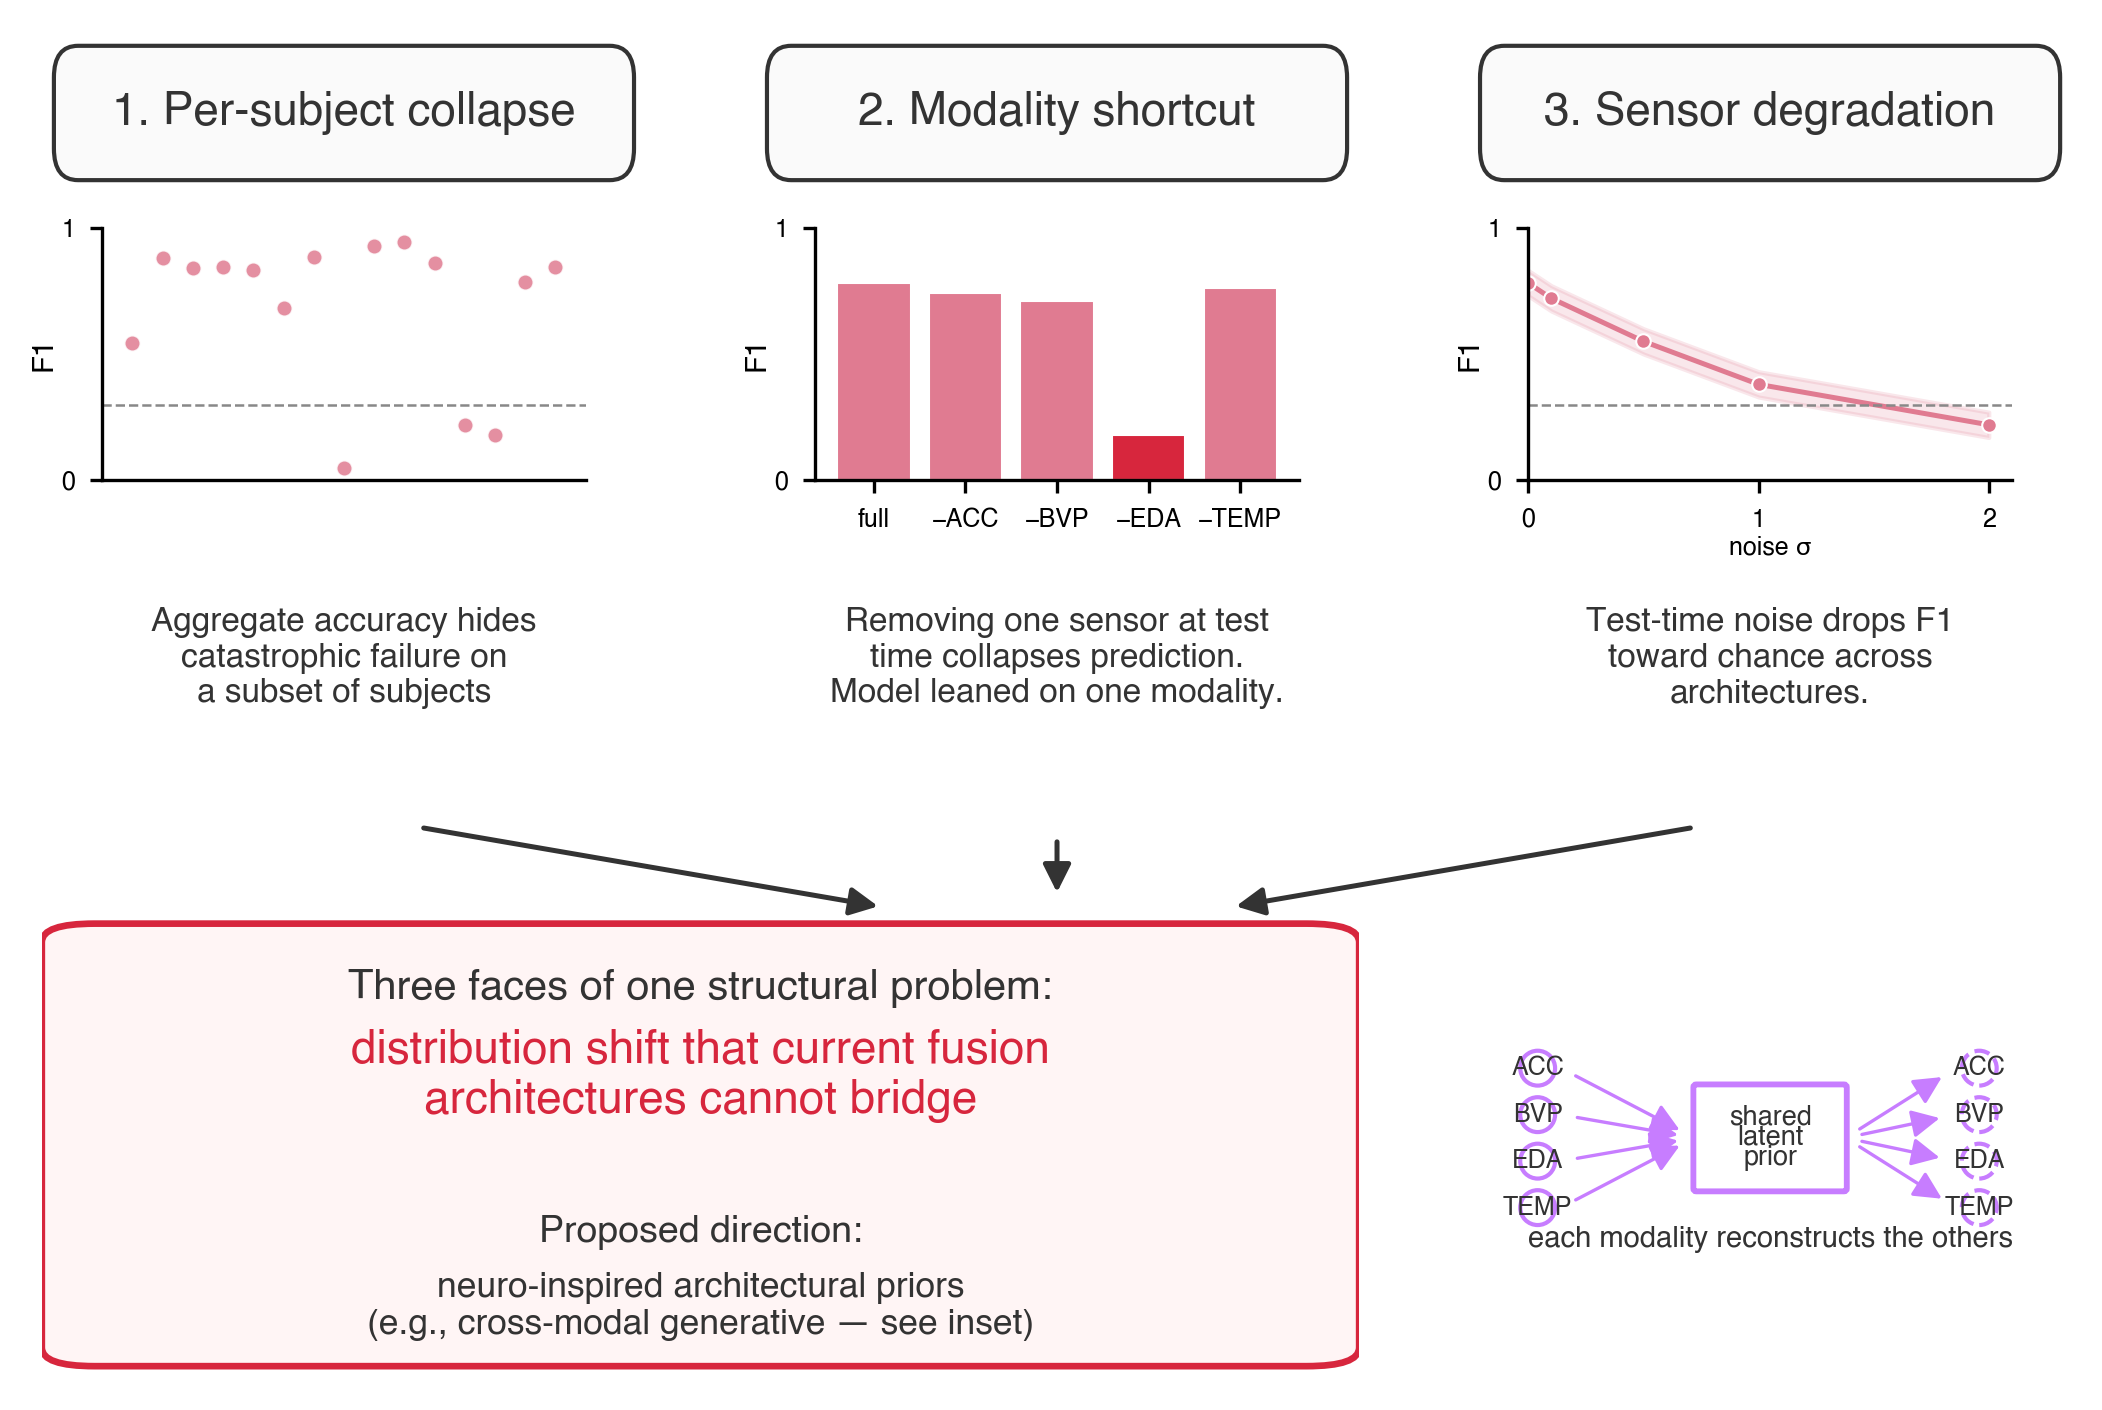
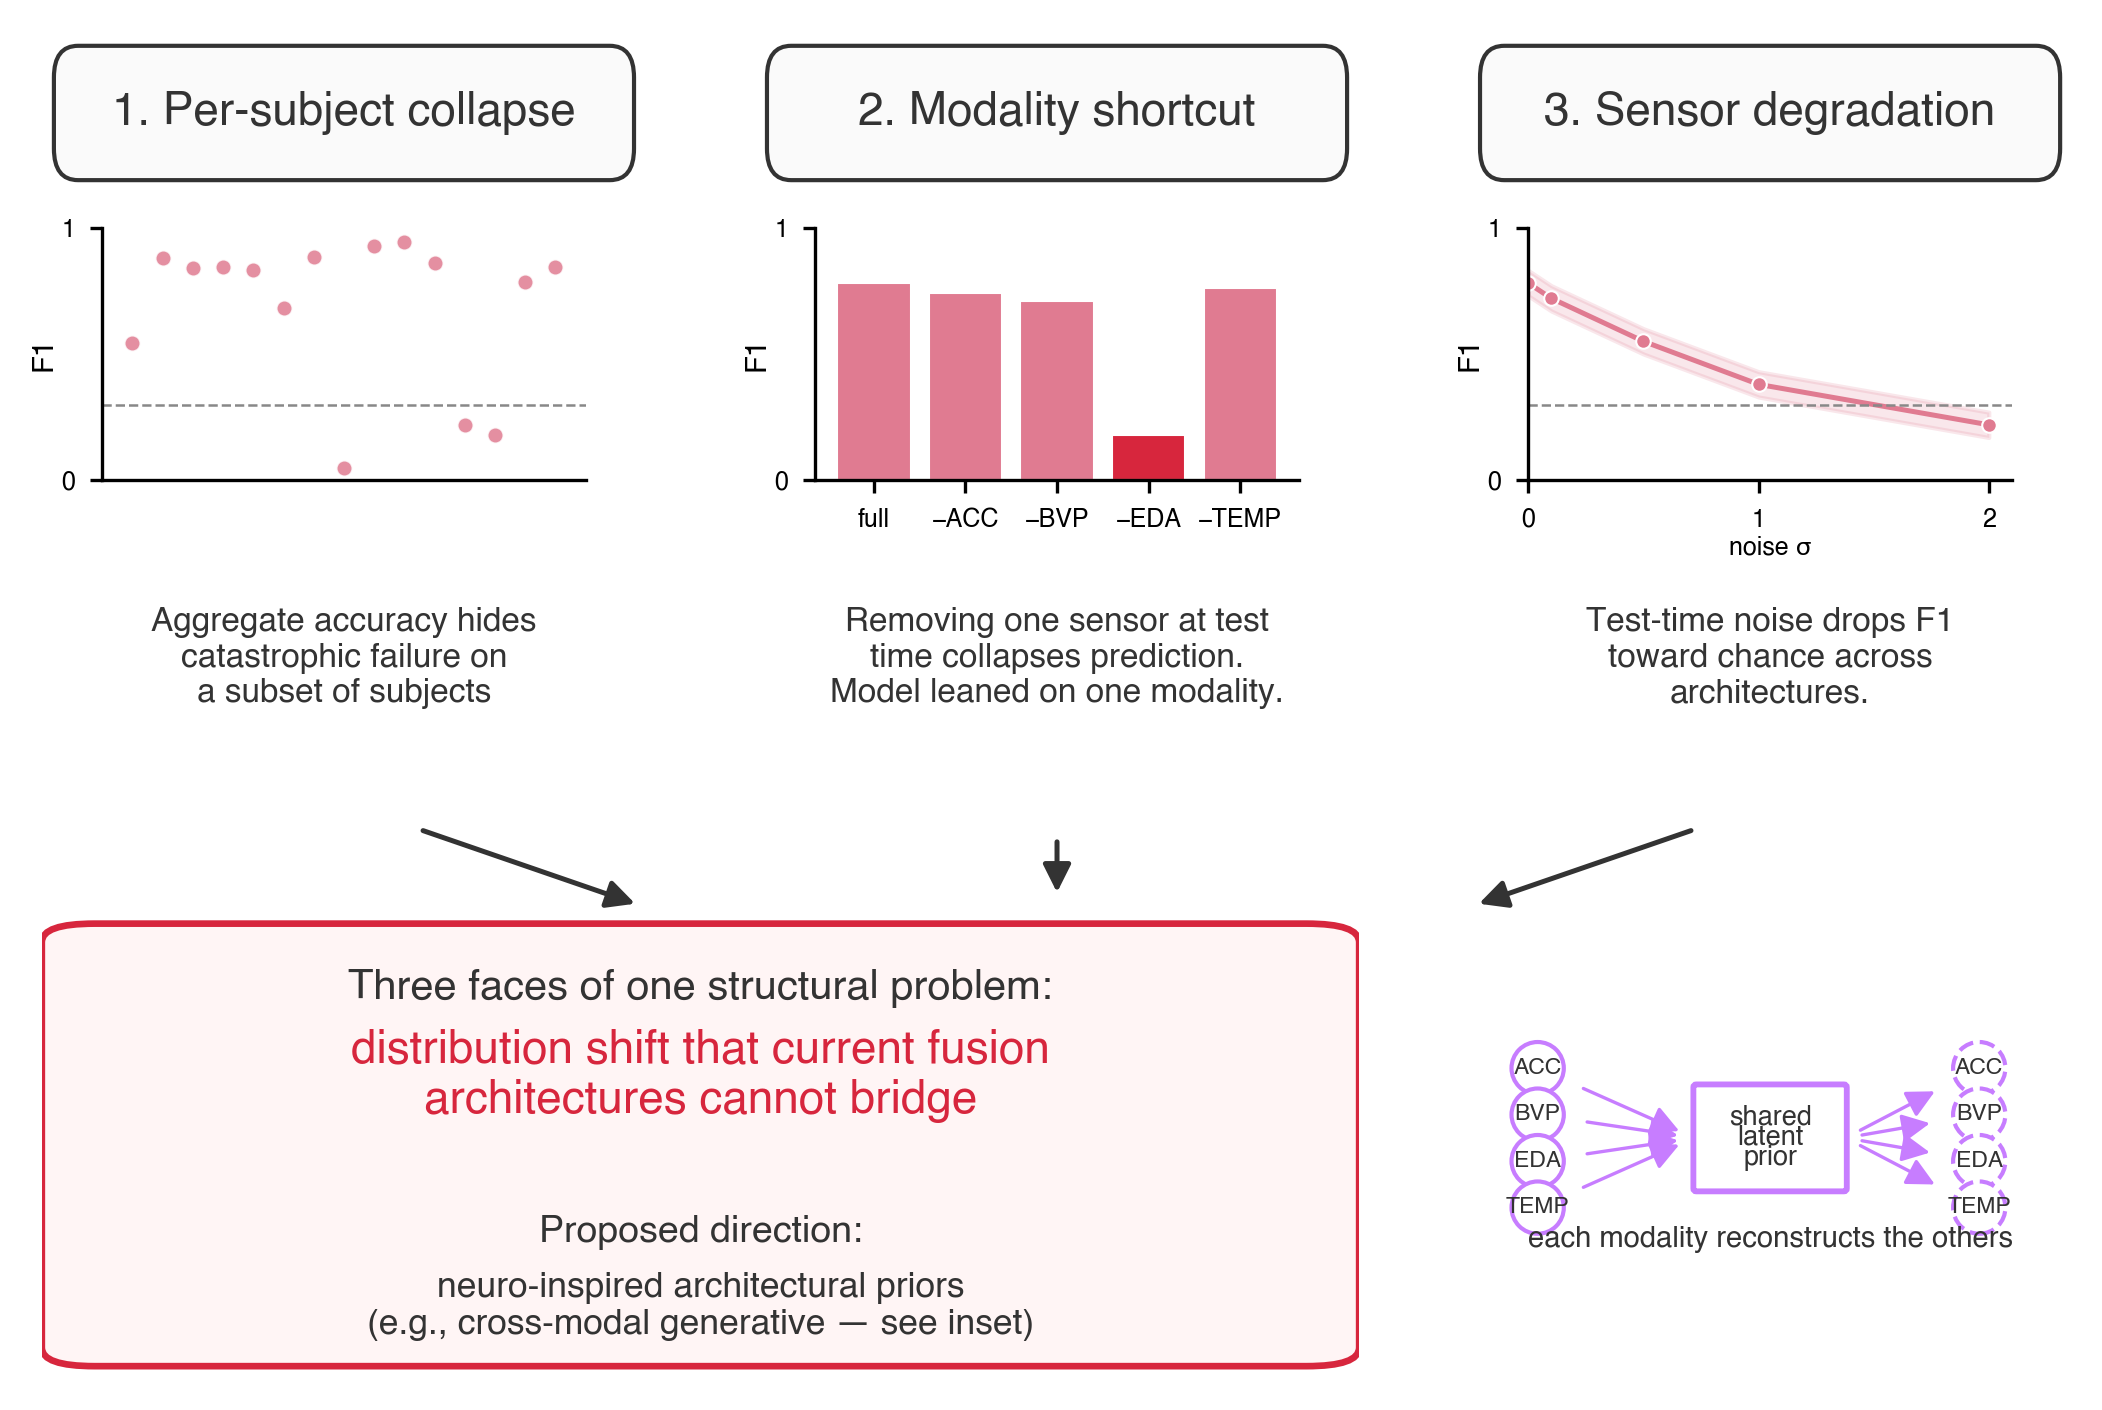
fix(figs): readability + Fig 1 polish
Fig 1:
- convergence arrows: targets staggered (0.30/0.50/0.70) for parallel reading,
  not pseudo-converged (was 0.42/0.50/0.58)
- cross-modal prior inset: circle radius 0.30→0.45 so 3-4 char modality labels
  (ACC/BVP/EDA/TEMP) clear the border with margin; explicit z-order so arrows
  draw under, circles middle, text on top
- arrow shrinkA/shrinkB params plumbed through helper to avoid arrow-into-circle
  clipping

Fig 3:
- figsize 10×4.4 → 7.2×4.2 (native print-size at \linewidth — no more 0.65× shrink)
- font sizes bumped: subject labels 7.5→9pt bold, suptitle 11.5→10.5pt
- wspace 0.42→0.30 to give panels more breathing room
- cluster annotation moved to upper-left of axes A so it stops crowding panel B

Fig 4:
- figsize 15.5×4.6 → 14×6.5 (aspect 3.37:1 → 2.15:1, prints with usable height)
- panel titles collapsed from 2-line to 1-line (detail moved to caption):
  'Modality shortcut persists' / 'Noise brittleness (trained encoders)'
- xtick labels 8→10pt; ytick 8→9pt; ylabel 9→10pt; suptitle 12→13pt
- scatter dots s=22→30 to remain distinguishable at print size
- gridspec top=0.86→0.82 + suptitle y=0.97→0.985 to clear panel-letter labels

diff --git a/src/figures/fig1_thesis.py b/src/figures/fig1_thesis.py
@@ -24,10 +24,12 @@ def _box(ax, x, y, w, h, ec, fc="white", lw=1.0, **kwargs):
     return bb
 
 
-def _arrow(ax, x1, y1, x2, y2, color="#444444", lw=1.2):
+def _arrow(ax, x1, y1, x2, y2, color="#444444", lw=1.2,
+           shrinkA=4, shrinkB=4):
     a = FancyArrowPatch((x1, y1), (x2, y2),
                         arrowstyle="-|>", color=color, lw=lw,
-                        mutation_scale=14, shrinkA=4, shrinkB=4)
+                        mutation_scale=14, shrinkA=shrinkA, shrinkB=shrinkB,
+                        zorder=2)
     ax.add_patch(a)
 
 
@@ -86,36 +88,41 @@ def _generative_prior_inset(ax):
     ax.axis("off")
     mods = ["ACC", "BVP", "EDA", "TEMP"]
     ys = [3.4, 2.6, 1.8, 1.0]
-    # left side input modalities
+    # Left-side input modalities. Larger radius (0.45) ensures every
+    # 3-4 char label clears the circle border with margin. zorder explicit
+    # so arrows draw beneath, circle border above, text on top.
     for y, m in zip(ys, mods):
-        c = mpatches.Circle((1.0, y), 0.30, ec=PALETTE["cross_modal_recon"],
-                             fc="white", lw=1.0)
+        c = mpatches.Circle((1.0, y), 0.45, ec=PALETTE["cross_modal_recon"],
+                            fc="white", lw=1.0, zorder=3)
         ax.add_patch(c)
-        ax.text(1.0, y, m, ha="center", va="center", fontsize=6,
-                color=PALETTE["annotation"])
-    # latent — widened from 2.0 to 2.6 to keep label inside on every renderer
+        ax.text(1.0, y, m, ha="center", va="center", fontsize=5.5,
+                color=PALETTE["annotation"], zorder=4)
+    # latent — widened to 2.6 to keep label inside on every renderer
     latent = FancyBboxPatch((3.7, 1.3), 2.6, 1.8,
                             boxstyle="round,pad=0.02,rounding_size=0.05",
                             ec=PALETTE["cross_modal_recon"],
-                            fc="white", lw=1.4)
+                            fc="white", lw=1.4, zorder=3)
     ax.add_patch(latent)
     ax.text(5.0, 2.55, "shared", ha="center", va="center", fontsize=6.5,
-            color=PALETTE["annotation"], fontweight="bold")
+            color=PALETTE["annotation"], fontweight="bold", zorder=4)
     ax.text(5.0, 2.20, "latent", ha="center", va="center", fontsize=6.5,
-            color=PALETTE["annotation"], fontweight="bold")
+            color=PALETTE["annotation"], fontweight="bold", zorder=4)
     ax.text(5.0, 1.85, "prior", ha="center", va="center", fontsize=6.5,
-            color=PALETTE["annotation"], fontweight="bold")
-    # right side reconstructed modalities
+            color=PALETTE["annotation"], fontweight="bold", zorder=4)
+    # Right-side reconstructed modalities (dashed border).
     for y, m in zip(ys, mods):
-        c = mpatches.Circle((8.6, y), 0.30, ec=PALETTE["cross_modal_recon"],
-                             fc="white", lw=1.0, ls="--")
+        c = mpatches.Circle((8.6, y), 0.45, ec=PALETTE["cross_modal_recon"],
+                            fc="white", lw=1.0, ls="--", zorder=3)
         ax.add_patch(c)
-        ax.text(8.6, y, m, ha="center", va="center", fontsize=6,
-                color=PALETTE["annotation"])
+        ax.text(8.6, y, m, ha="center", va="center", fontsize=5.5,
+                color=PALETTE["annotation"], zorder=4)
+    # Arrows: shrinkA/shrinkB extra so they start/end outside the larger circles.
     for y in ys:
-        _arrow(ax, 1.4, y, 3.7, 2.2, color=PALETTE["cross_modal_recon"], lw=0.8)
+        _arrow(ax, 1.0, y, 3.7, 2.2, color=PALETTE["cross_modal_recon"],
+               lw=0.8, shrinkA=12, shrinkB=4)
     for y in ys:
-        _arrow(ax, 6.3, 2.2, 8.2, y, color=PALETTE["cross_modal_recon"], lw=0.8)
+        _arrow(ax, 6.3, 2.2, 8.6, y, color=PALETTE["cross_modal_recon"],
+               lw=0.8, shrinkA=4, shrinkB=12)
     ax.text(5.0, 0.45, "each modality reconstructs the others",
             ha="center", va="center", fontsize=7, style="italic",
             color=PALETTE["annotation"])
@@ -165,12 +172,14 @@ def render(out_path: Path) -> None:
 
         column_axes.append(ax)
 
-    # Convergence arrows row -> central conclusion. Stagger targets so
-    # arrowheads don't pile up at a single point on the conclusion box top.
+    # Convergence arrows row -> central conclusion. Three parallel arrows of
+    # equal length, hitting the conclusion-box top at evenly-spaced anchors —
+    # reads as "three independent failures of the same problem" without
+    # arrowhead pile-up.
     ax_arrow = fig.add_subplot(gs[1, :])
     ax_arrow.axis("off")
     ax_arrow.set_xlim(0, 1); ax_arrow.set_ylim(0, 1)
-    for src_x, tgt_x in [(0.18, 0.42), (0.50, 0.50), (0.82, 0.58)]:
+    for src_x, tgt_x in [(0.18, 0.30), (0.50, 0.50), (0.82, 0.70)]:
         _arrow(ax_arrow, src_x, 0.95, tgt_x, 0.10,
                color=PALETTE["annotation"], lw=1.2)
 

diff --git a/src/figures/fig4_scale.py b/src/figures/fig4_scale.py
@@ -36,15 +36,16 @@ def panel_top(ax, per_subj) -> None:
     for i, m in enumerate(MODELS):
         means = [per_subj[m][s]["f1_mean"] for s in SUBJECTS]
         xs = x_centers[i] + (rng.random(len(means)) - 0.5) * 0.30
-        ax.scatter(xs, means, s=22, c=PALETTE[m], alpha=0.85,
+        ax.scatter(xs, means, s=30, c=PALETTE[m], alpha=0.85,
                    edgecolor="white", linewidth=0.5)
         agg_mu = float(np.mean(means))
         ax.hlines(agg_mu, x_centers[i] - 0.30, x_centers[i] + 0.30,
-                  color=PALETTE[m], lw=1.6)
+                  color=PALETTE[m], lw=1.8)
     ax.axhline(0.3, color=PALETTE["stress"], linestyle=":", lw=0.7, alpha=0.6)
     ax.set_xticks(x_centers)
-    ax.set_xticklabels([MODEL_LABELS[m] for m in MODELS], fontsize=8)
-    ax.set_ylabel("Per-subject F1")
+    ax.set_xticklabels([MODEL_LABELS[m] for m in MODELS], fontsize=10)
+    ax.tick_params(axis='y', labelsize=9)
+    ax.set_ylabel("Per-subject F1", fontsize=10)
     ax.set_ylim(-0.04, 1.05)
 
 
@@ -64,8 +65,9 @@ def panel_mid(ax, exp2) -> None:
            color=[PALETTE[m] for m in MODELS],
            edgecolor="white", linewidth=0.5)
     ax.set_xticks(x_centers)
-    ax.set_xticklabels([MODEL_LABELS[m] for m in MODELS], fontsize=8)
-    ax.set_ylabel("F1 (worst-case dropout)")
+    ax.set_xticklabels([MODEL_LABELS[m] for m in MODELS], fontsize=10)
+    ax.tick_params(axis='y', labelsize=9)
+    ax.set_ylabel("F1 (worst-case dropout)", fontsize=10)
     ax.set_ylim(0, 0.9)
     ax.axhline(0.3, color=PALETTE["stress"], linestyle=":", lw=0.7, alpha=0.6)
 
@@ -95,8 +97,9 @@ def panel_bot(ax, exp3, per_subj) -> None:
            edgecolor="white", linewidth=0.5)
     ax.axhline(0, color=PALETTE["baseline"], lw=0.6)
     ax.set_xticks(x_centers)
-    ax.set_xticklabels([MODEL_LABELS[m] for m in plotted_models], fontsize=8)
-    ax.set_ylabel(f"F1 drop, clean to σ={high_sigma:g}")
+    ax.set_xticklabels([MODEL_LABELS[m] for m in plotted_models], fontsize=10)
+    ax.tick_params(axis='y', labelsize=9)
+    ax.set_ylabel(f"F1 drop, clean to σ={high_sigma:g}", fontsize=10)
     ax.set_ylim(-0.05, 0.55)
     ax.set_xlim(-0.7, len(plotted_models) - 0.3)
 
@@ -113,35 +116,33 @@ def render(out_path: Path) -> None:
     exp2, s2 = load_exp2(per_subj)
     exp3, s3 = load_exp3(per_subj)
 
-    fig = plt.figure(figsize=(15.5, 4.6))
+    # Single-row 1×3 layout sized to read at \linewidth (~6.5 in). Aspect
+    # 14:6.5 ≈ 2.15:1 keeps panels close to square at print scale.
+    fig = plt.figure(figsize=(14.0, 6.5))
     gs = fig.add_gridspec(1, 3, width_ratios=[1, 1, 1],
-                          left=0.06, right=0.97, top=0.78, bottom=0.16,
-                          wspace=0.30)
+                          left=0.07, right=0.97, top=0.82, bottom=0.10,
+                          wspace=0.34)
 
     axT = fig.add_subplot(gs[0])
     panel_top(axT, per_subj)
-    panel_label(axT, "A", x=-0.14, y=1.13)
-    _set_panel_title(axT, "Per-subject collapse persists", fontsize=9.5)
+    panel_label(axT, "A", x=-0.16, y=1.08)
+    _set_panel_title(axT, "Per-subject collapse persists", fontsize=11)
 
     axM = fig.add_subplot(gs[1])
     panel_mid(axM, exp2)
-    panel_label(axM, "B", x=-0.14, y=1.13)
-    _set_panel_title(axM, "Modality shortcut persists across the parameter sweep;\n"
-                            "scale-proxy is worst (within seed-fold variance)",
-                     fontsize=9)
+    panel_label(axM, "B", x=-0.16, y=1.08)
+    _set_panel_title(axM, "Modality shortcut persists", fontsize=11)
 
     axB = fig.add_subplot(gs[2])
     panel_bot(axB, exp3, per_subj)
-    panel_label(axB, "C", x=-0.14, y=1.13)
-    _set_panel_title(axB, "Noise brittleness on the two trained-encoder archs\n"
-                            "(scale-proxy omitted — see caption)",
-                     fontsize=9)
+    panel_label(axB, "C", x=-0.16, y=1.08)
+    _set_panel_title(axB, "Noise brittleness (trained encoders)", fontsize=11)
 
     flag = ""
     if any(s == "placeholder" for s in (s1, s2, s3)):
         flag = "  [PLACEHOLDER DATA]"
     fig.suptitle("Scale alone does not fix any of the three failure modes" + flag,
-                 fontsize=12, fontweight="bold", y=0.97)
+                 fontsize=13, fontweight="bold", y=0.985)
 
     out_path = Path(out_path)
     out_path.parent.mkdir(parents=True, exist_ok=True)

diff --git a/src/figures/fig3_unification.py b/src/figures/fig3_unification.py
@@ -67,7 +67,7 @@ def _label_offset(x: float, y: float, lab: str, fragile_set: set) -> tuple[int, 
     the panel-A annotation block.
     """
     if lab in fragile_set:
-        return (6, -8)  # below-right, away from rect border
+        return (7, -10)  # below-right, away from rect border
     return (5, 5)
 
 
@@ -136,7 +136,7 @@ def panel_A(ax, per_subj, exp2_per_subj, exp3_per_subj, status):
             continue
         dx, dy = _label_offset(x, y, lab, fragile_set)
         ax.annotate(lab, (x, y), xytext=(dx, dy), textcoords="offset points",
-                    fontsize=7.5, fontweight="bold",
+                    fontsize=9, fontweight="bold",
                     color=PALETTE["annotation"], alpha=0.95)
 
     if fragile:
@@ -148,16 +148,18 @@ def panel_A(ax, per_subj, exp2_per_subj, exp3_per_subj, status):
                          fc=PALETTE["stress"], ec=PALETTE["stress"],
                          alpha=0.10, lw=0.8, ls="--", zorder=1)
         ax.add_patch(rect)
-        # Annotate the rectangle directly with the cluster claim.
+        # Cluster claim — anchor to upper-left of axes so it doesn't crowd
+        # panel B's left edge or the colorbar.
         if fragile_names:
             ax.annotate(
-                f"{', '.join(fragile_names)}:\nfragile across all 3 failure modes",
+                f"{', '.join(fragile_names)}:\nfragile across all 3 modes",
                 xy=((x_lo + x_hi) / 2, y_hi),
-                xytext=((x_lo + x_hi) / 2 + 0.15, y_hi + 0.18),
-                fontsize=8.5, fontweight="bold", color=PALETTE["stress"],
-                ha="left", va="bottom",
+                xytext=(0.04, 0.92), textcoords="axes fraction",
+                fontsize=9, fontweight="bold", color=PALETTE["stress"],
+                ha="left", va="top",
                 arrowprops=dict(arrowstyle="-", color=PALETTE["stress"],
-                                lw=0.7, connectionstyle="arc3,rad=-0.15"),
+                                lw=0.6, connectionstyle="arc3,rad=0.25",
+                                alpha=0.7),
             )
 
     ax.set_xlabel("Clean F1 (LOSO, mean over architectures)")
@@ -212,23 +214,24 @@ def render(out_path: Path) -> None:
     exp2_per = _per_subject_dropout_summary(Path("results/exp2_dropout"))
     exp3_per = _per_subject_noise_summary(Path("results/exp3_degradation"))
 
-    fig = plt.figure(figsize=(10.0, 4.4))
-    gs = fig.add_gridspec(1, 2, width_ratios=[1.2, 1.0],
-                          left=0.07, right=0.88, top=0.84, bottom=0.13,
-                          wspace=0.42)
+    # Render at native print size so fonts read at the target paper width.
+    fig = plt.figure(figsize=(7.2, 4.2))
+    gs = fig.add_gridspec(1, 2, width_ratios=[1.15, 1.0],
+                          left=0.09, right=0.91, top=0.86, bottom=0.16,
+                          wspace=0.30)
     axA = fig.add_subplot(gs[0, 0])
     panel_A(axA, per_subj, exp2_per, exp3_per, status1)
-    panel_label(axA, "A", x=-0.10, y=1.02)
+    panel_label(axA, "A", x=-0.12, y=1.03)
 
     axB = fig.add_subplot(gs[0, 1])
     panel_B(axB, exp2, status2)
-    panel_label(axB, "B", x=-0.10, y=1.02)
+    panel_label(axB, "B", x=-0.12, y=1.03)
 
     flag = ""
     if any(s == "placeholder" for s in (status1, status2, status3)):
         flag = "  [PLACEHOLDER DATA]"
     fig.suptitle("Same subjects fail across failure modes; same modalities shortcut" + flag,
-                 fontsize=11.5, fontweight="bold", y=0.95)
+                 fontsize=10.5, fontweight="bold", y=0.97)
 
     out_path = Path(out_path)
     out_path.parent.mkdir(parents=True, exist_ok=True)